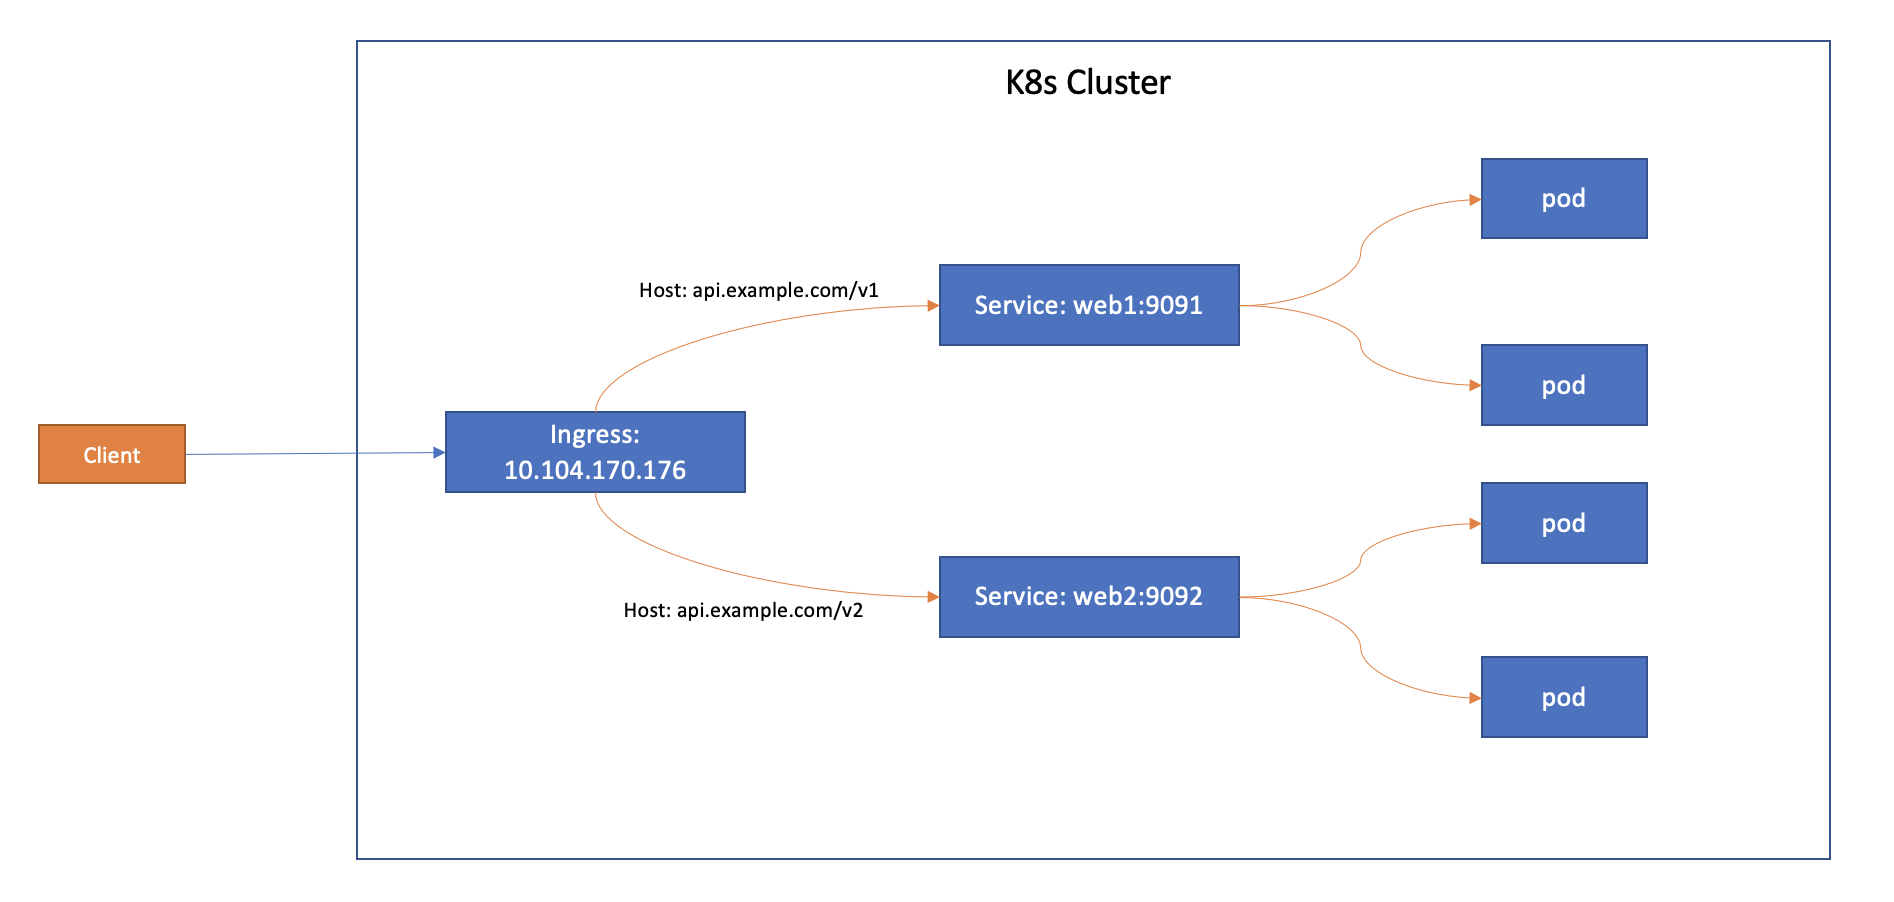
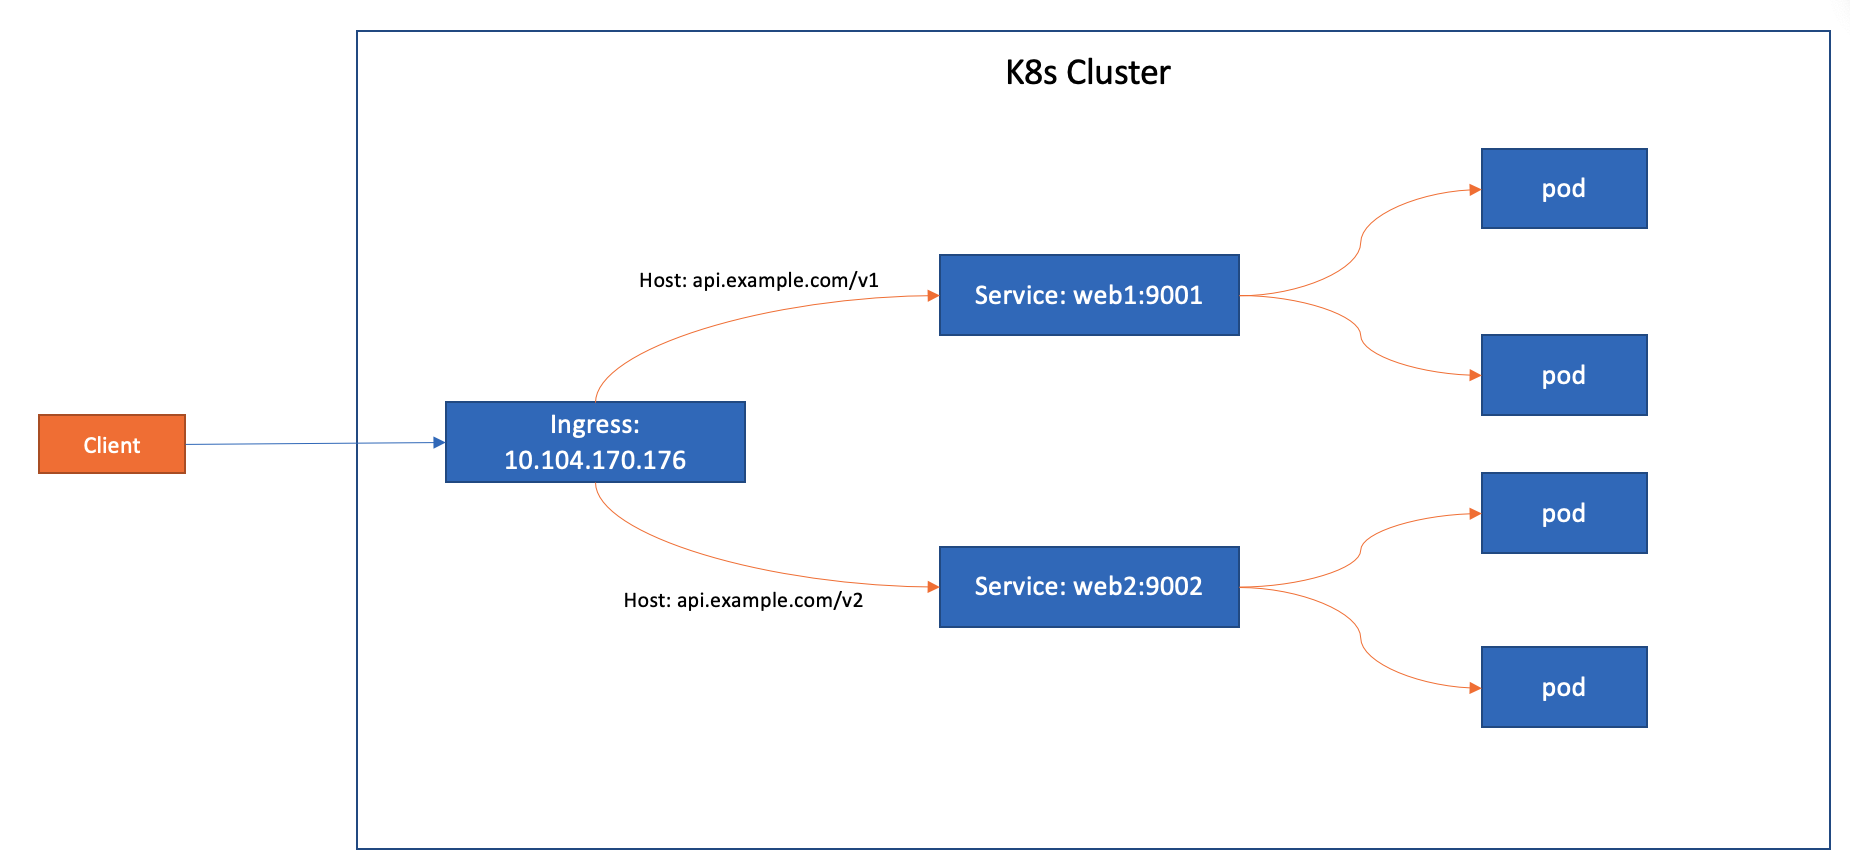
update

diff --git a/source/network/ingress.rst b/source/network/ingress.rst
@@ -244,7 +244,7 @@ Name Based Virtual Hosts with Ingress
                 service:
                   name: web1
                   port:
-                    number: 9091
+                    number: 9001
         - host: v2.api.example.com
           http:
             paths:
@@ -254,11 +254,36 @@ Name Based Virtual Hosts with Ingress
                 service:
                   name: web2
                   port:
-                    number: 9091
+                    number: 9002
 
 
 Using TLS certificates for HTTPs Ingress
 ~~~~~~~~~~~~~~~~~~~~~~~~~~~~~~~~~~~~~~~~~~~
+
+
+生成key
+
+.. code-block:: bash
+
+  $ openssl req -x509 -nodes -days 365 -newkey rsa:2048 -keyout tls.key -out tls.crt -subj "/CN=api.example.com"
+  Generating a RSA private key
+  ...........+++++
+  ................................+++++
+  writing new private key to 'tls.key'
+  -----
+  $ ls
+  tls.crt  tls.key
+
+
+Create secret:
+
+.. code-block:: bash
+
+  $ kubectl create secret tls test-tls --key="tls.key" --cert="tls.crt"
+  secret/test-tls created
+  $ kubectl get secrets
+  NAME       TYPE                DATA   AGE
+  test-tls   kubernetes.io/tls   2      6s
 
 
 ingress-virtual-host.png
@@ -273,16 +298,30 @@ ingress-virtual-host.png
       ingressClassName: nginx
       tls:
       - hosts:
-          - tls.example.com
-        secretName: tls-secret
+          - api.example.com
+        secretName: test-tls
       rules:
-      - host: tls.example.com
+      - host: api.example.com
         http:
           paths:
           - path: /
             pathType: Prefix
             backend:
               service:
-                name: hello-world-service-single
+                name: web1
                 port:
-                  number
+                  number: 9001
+
+
+创建ingress。
+
+修改hosts文件并测试
+
+.. code-block::  bash
+
+  $ sudo more /etc/hosts | grep api
+  10.104.170.176 api.example.com
+  $ curl https://api.example.com --insecure
+  Hello, world!
+  Version: 1.0.0
+  Hostname: web1-7f6c665f7d-472c2

diff --git a/source/security.rst b/source/security.rst
@@ -1,2 +1,8 @@
 Security
 ==============
+
+- Kubernetes Security Fundamentals
+- Managing Certificates and kubeconfig files
+- Managing Role Based Access Controls
+
+
